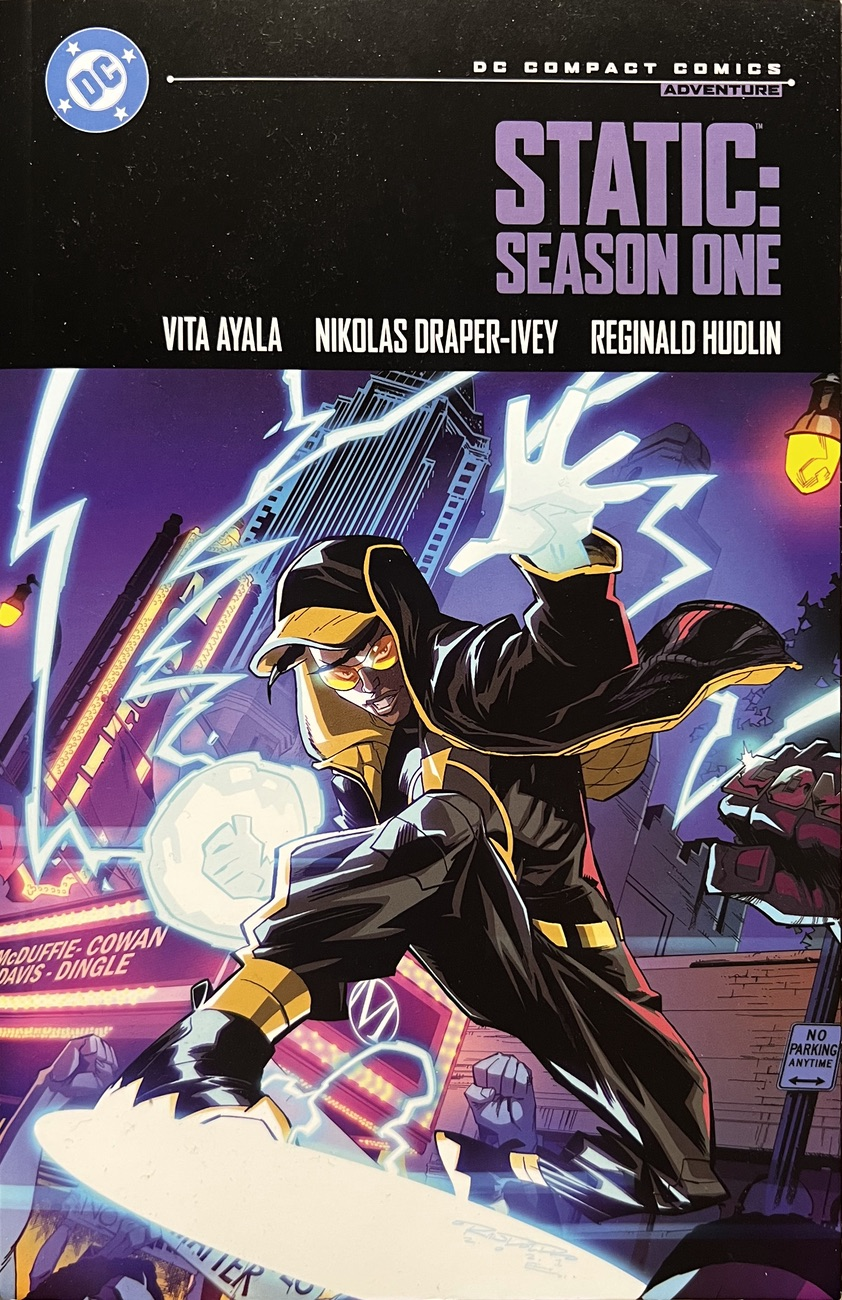
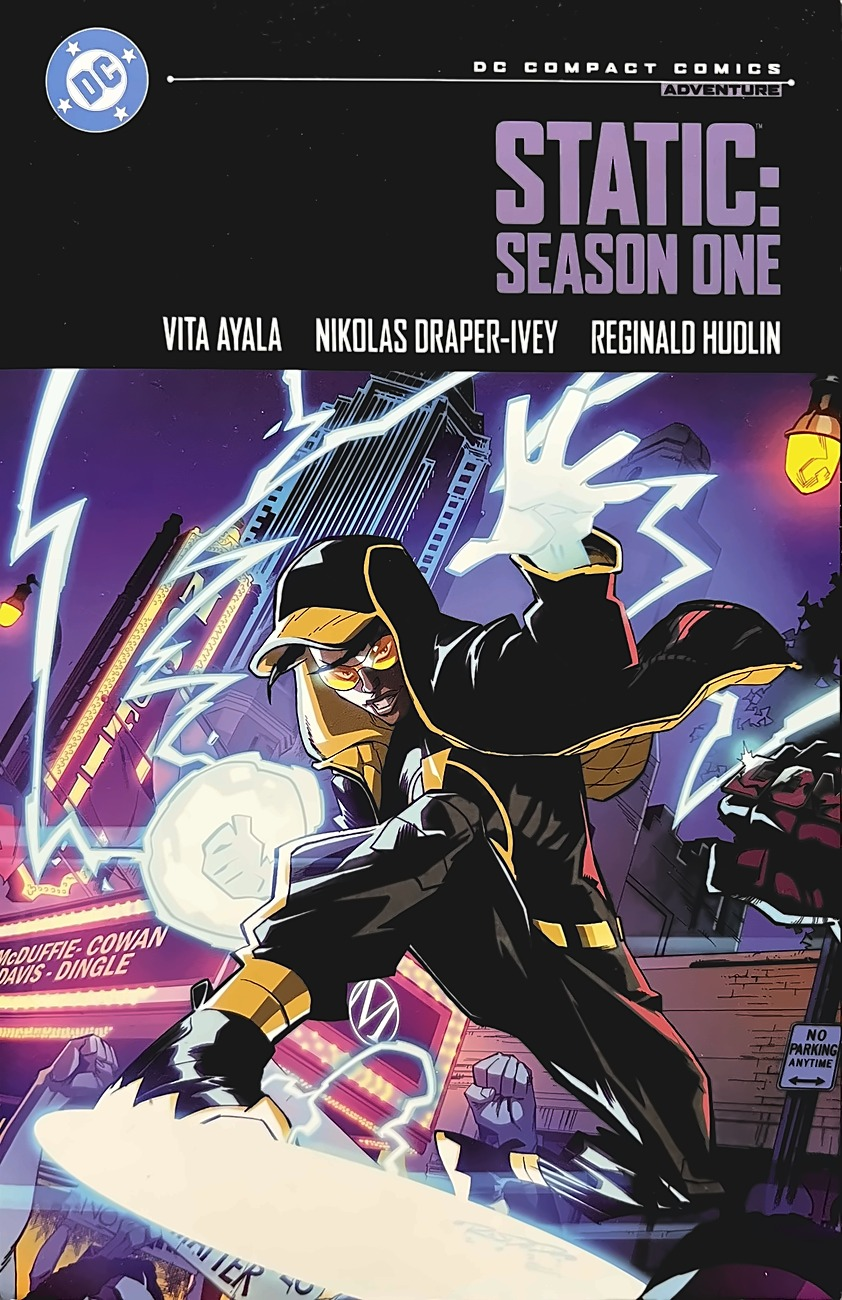
Use final compact photos and refine framing

diff --git a/off-the-clock/comics.js b/off-the-clock/comics.js
@@ -1238,13 +1238,15 @@ export const compacts = [
     physicalSizeInches: [5.5, 8.5], thicknessInches: 0.46,
     thicknessBasis: 'Approximate: measured from the straightened spine photograph (spine width over its 8.5 in height); retailer listings vary.',
     source: 'https://www.penguinrandomhouse.com/books/773606/static-season-one-dc-compact-comics-edition-by-vita-ayala/',
-    front: './assets/compacts/static-season-one-front.jpg', back: './assets/compacts/static-season-one-back.jpg', spine: './assets/compacts/static-season-one-spine.jpg',
+    front: './assets/compacts/static-season-one-front.jpg?v=2', back: './assets/compacts/static-season-one-back.jpg?v=2', spine: './assets/compacts/static-season-one-spine.jpg?v=2',
     pageEdge: './assets/compacts/static-season-one-page-edge.jpg',
     pageEdgeNote: 'Page edge photographed from my copy.',
     frontQuad: [[0,0],[1,0],[1,1],[0,1]],
     backQuad: [[0,0],[1,0],[1,1],[0,1]],
     spineQuad: [[0,0],[1,0],[1,1],[0,1]],
-    backImageNote: 'Photographed from my copy'
+    frontImageNote: 'Photographed from my copy',
+    backImageNote: 'Photographed from my copy',
+    spineImageNote: 'Photographed from my copy'
   },
   {
     id: 'green-arrow-year-one', format: 'compact-paperback', title: 'Green Arrow: Year One',
@@ -1252,12 +1254,14 @@ export const compacts = [
     physicalSizeInches: [5.5, 8.5], thicknessInches: 0.42,
     thicknessBasis: 'Approximate: measured from the straightened spine photograph (spine width over its 8.5 in height); retailer listings vary.',
     source: 'https://www.penguinrandomhouse.com/books/811893/green-arrow-year-one-dc-compact-comics-edition-by-andy-diggle/9781799508083/',
-    front: './assets/compacts/green-arrow-year-one-front.jpg', back: './assets/compacts/green-arrow-year-one-back.jpg', spine: './assets/compacts/green-arrow-year-one-spine.jpg',
+    front: './assets/compacts/green-arrow-year-one-front.jpg?v=2', back: './assets/compacts/green-arrow-year-one-back.jpg?v=2', spine: './assets/compacts/green-arrow-year-one-spine.jpg?v=2',
     pageEdge: './assets/compacts/green-arrow-year-one-page-edge-estimate.jpg',
     pageEdgeNote: 'Estimated page edge: a lightened version of the Static photograph; this book was not photographed edge-on.',
     frontQuad: [[0,0],[1,0],[1,1],[0,1]],
     backQuad: [[0,0],[1,0],[1,1],[0,1]],
     spineQuad: [[0,0],[1,0],[1,1],[0,1]],
-    backImageNote: 'Photographed from my copy'
+    frontImageNote: 'Publisher cover image; matches my copy',
+    backImageNote: 'Photographed from my copy',
+    spineImageNote: 'Photographed from my copy'
   }
 ];

diff --git a/off-the-clock/compacts-display.js b/off-the-clock/compacts-display.js
@@ -1,5 +1,5 @@
 import * as THREE from 'three';
-import {compacts} from './comics.js?v=39.2';
+import {compacts} from './comics.js?v=39.3';
 import {createPaperback} from './paperback.js?v=2.2';
 
 // These display studies are created only on request, after the short box paints.
@@ -42,7 +42,11 @@ export function openCompactDisplays({box,inline=false}){
       const bounds=new THREE.Box3().setFromObject(selected>=0?books[selected].group:root);
       const center=bounds.getCenter(new THREE.Vector3()),size=bounds.getSize(new THREE.Vector3());
       const tanV=Math.tan(THREE.MathUtils.degToRad(camera.fov)/2),tanH=tanV*camera.aspect;
-      const distance=Math.max(size.y/(2*tanV),size.x/(2*tanH))*1.14;
+      // Reserve space around an inspected book on desktop: a 1.38 margin
+      // fits its bounds to approximately 70% of the stage height. Keep the
+      // existing phone and shelf framing.
+      const margin=selected>=0&&!mobile?1.38:1.14;
+      const distance=Math.max(size.y/(2*tanV),size.x/(2*tanH))*margin;
       camera.position.set(center.x,center.y,bounds.max.z+distance);camera.lookAt(center);
     }else{camera.position.set((display==='stack'?-1:1)*(mobile?2.2:4.0),mobile?4.0:4.2,mobile?15.5:10.8);camera.lookAt(0,1.5,0);}
   }
@@ -57,7 +61,8 @@ export function openCompactDisplays({box,inline=false}){
     }else activeScene=scene;
     activeScene.add(root);inspectControls.hidden=selected<0;backButton.hidden=selected<0;bookButtons.forEach(b=>b.hidden=selected>=0);options.forEach(b=>{b.hidden=selected>=0;b.setAttribute('aria-pressed',String(b.dataset.display===display));});
     if(selected>=0){
-      title.textContent=compacts[selected].title;note.textContent=angle==='back'?compacts[selected].backImageNote:'Drag to turn · Front, back and spine';
+      title.textContent=compacts[selected].title;
+      note.textContent=`${compacts[selected][`${angle}ImageNote`]} · Drag to turn`;
       views.forEach(b=>b.setAttribute('aria-pressed',String(b.dataset.view===angle)));
       setBook(selected,0,0,0,inspectPitch,inspectYaw,0);
       mount.setAttribute('aria-label',`${compacts[selected].title} close-up. Drag to turn, or use the front, back and spine buttons.`);

diff --git a/off-the-clock/main.js b/off-the-clock/main.js
@@ -1,4 +1,4 @@
-import {comics} from './comics.js?v=39.2';
+import {comics} from './comics.js?v=39.3';
 import {createBox} from './model.js?v=43.0';
 import {createStickerStudio} from './sticker-studio.js?v=30.0';
 import {createRuler,mobileControlsQuery} from './ruler-control.js?v=19.0';
@@ -204,7 +204,7 @@ try{
         const style=document.createElement('link');style.rel='stylesheet';style.href='./compacts.css?v=2.0';style.dataset.compacts='';
         await new Promise((resolve,reject)=>{style.onload=resolve;style.onerror=()=>{style.remove();reject(new Error('Could not load paperback styles'));};document.head.append(style);});
       }
-      const {openCompactDisplays}=await import('./compacts-display.js?v=2.2');
+      const {openCompactDisplays}=await import('./compacts-display.js?v=2.3');
       openCompactDisplays({box,inline});
     }catch(error){console.error('Unable to prepare paperback displays',error);announce('The paperback displays could not be opened. Please try again.');}
     finally{if(!$('compact-dialog').open){button.disabled=false;switchButton.disabled=false;}}

diff --git a/off-the-clock/index.html b/off-the-clock/index.html
@@ -170,6 +170,6 @@
       </section>
     </div>
   </dialog>
-  <script type="module" src="./main.js?v=49.1"></script>
+  <script type="module" src="./main.js?v=49.2"></script>
 </body>
 </html>
